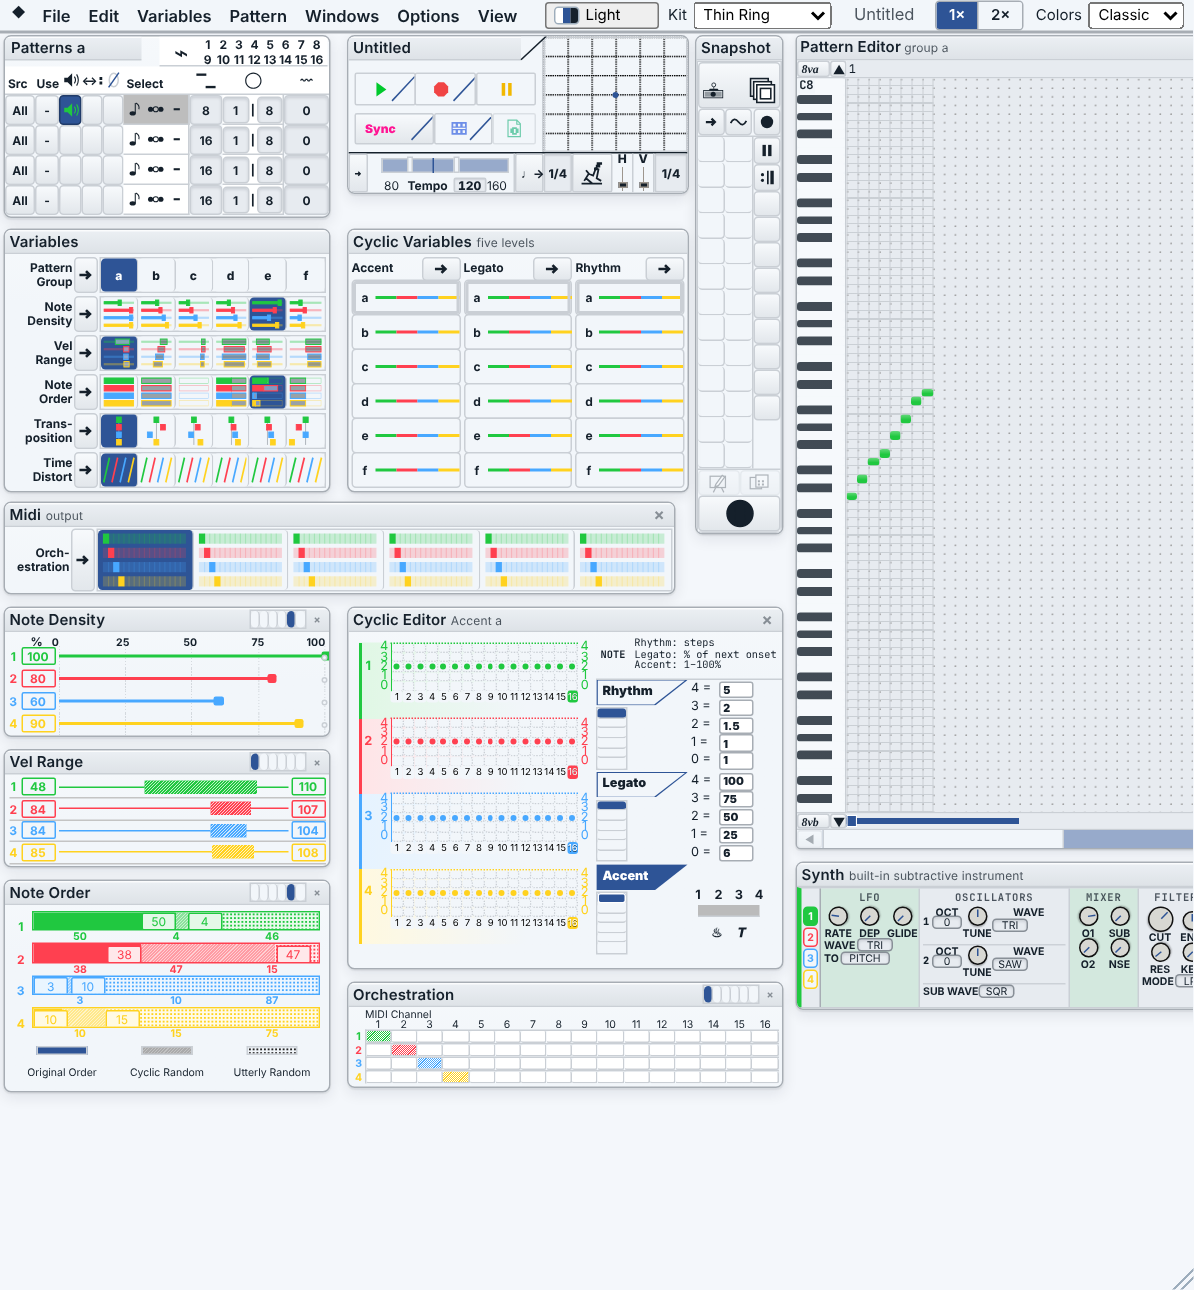
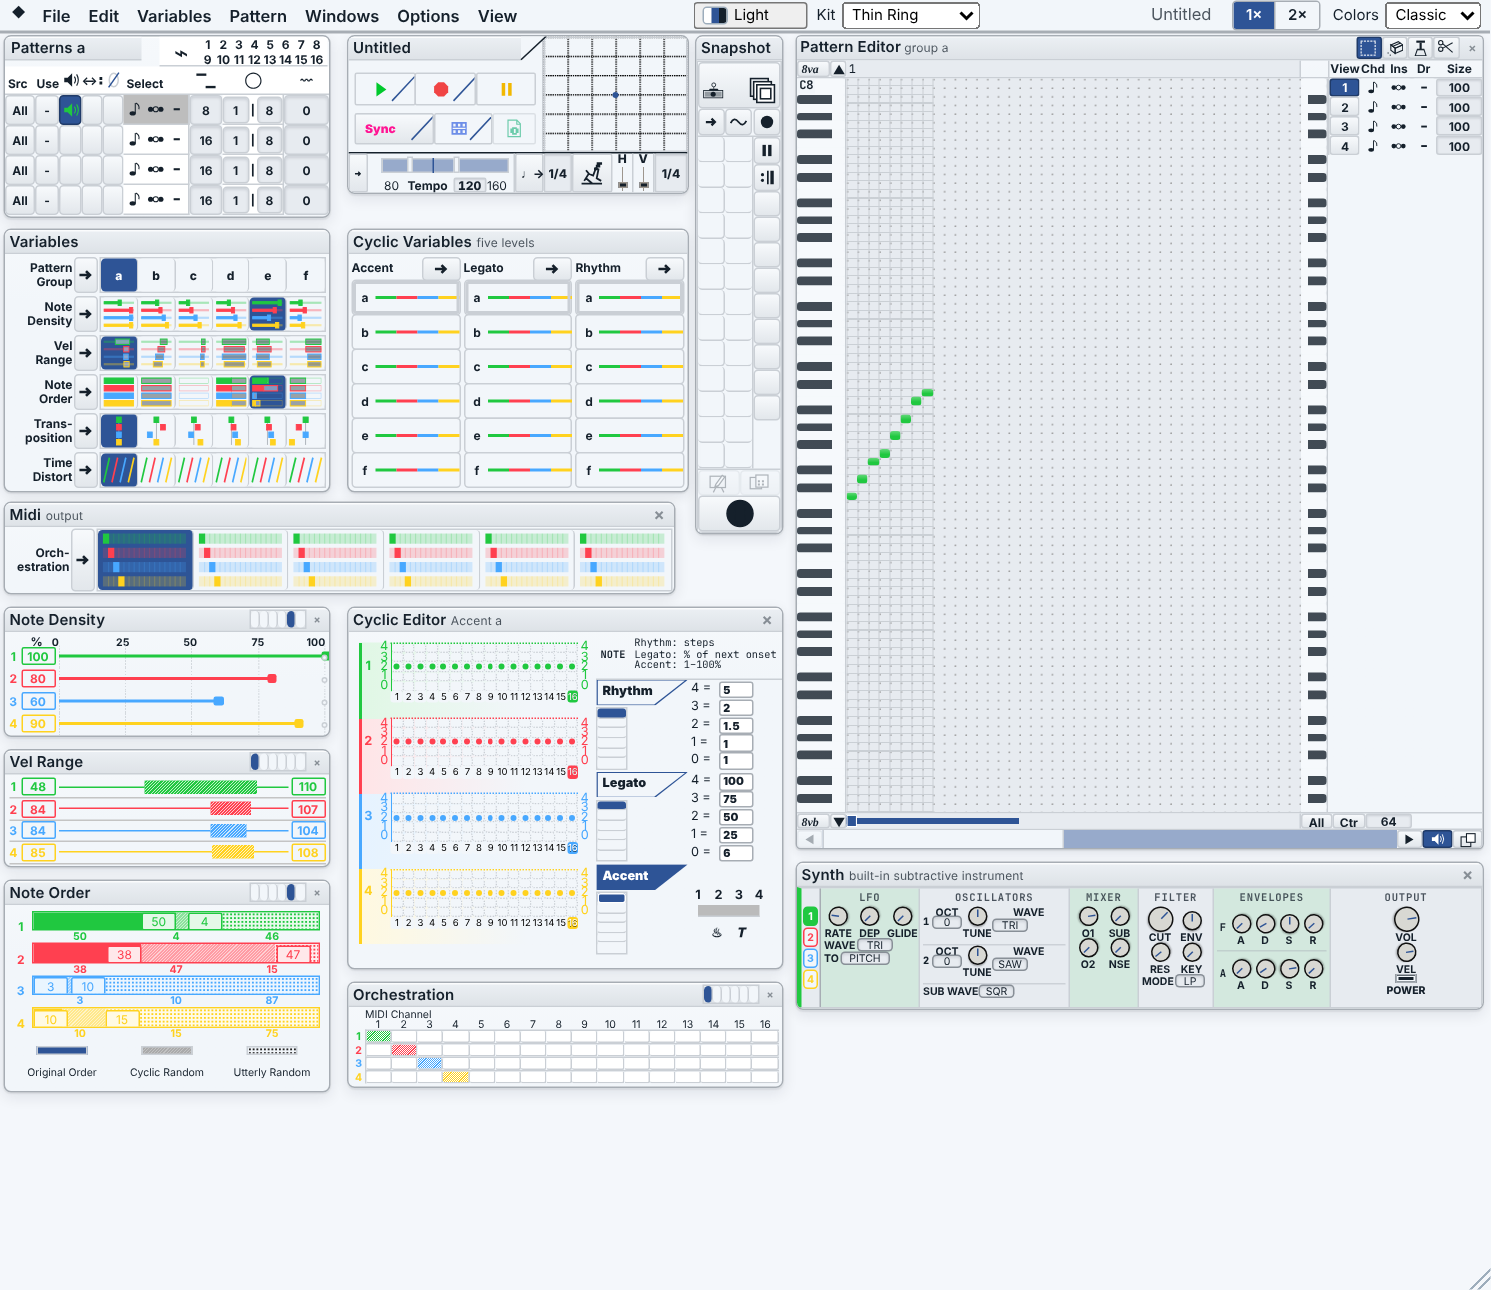
The M node is wide enough for M's whole arrangement
At 818px the node cut the Pattern Editor column in half at the face's
edge, and the corner grip could not widen it. The one fixed width is now
1016px: a 994px face holds the arrangement, which ends at 990px, with
M's 3-point margin either side. The after screenshots are re-taken at
the new width.

Changed region(s): [[0.0, 0.0, 1.0, 0.8682], [0.9606, 0.9922, 1.0, 1.0], [0.1549, 0.5271, 0.1859, 0.5581]]

diff --git a/src/modular/ui/n4/n4.css b/src/modular/ui/n4/n4.css
@@ -808,8 +808,10 @@
 
 /* ===== The Synth: VOSM's envelope panels, tight ===== */
 .mm-node.mm-node--n4[data-module-type="m.synth"] { --mm-width: 300px; }
-/* The original M window, drawn at M's own fixed size. */
-.mm-node.mm-node--n4[data-module-type="m.m"] { --mm-width: 818px; }
+/* The original M window, drawn at one fixed width: M's whole arrangement
+   (the main screen, then the Pattern Editor column) with M's 3-point margin
+   either side, so nothing is cut off at the face's edge. */
+.mm-node.mm-node--n4[data-module-type="m.m"] { --mm-width: 1016px; }
 .mm-node.mm-node--n4[data-module-type="m.synth"] .mm-node-section:has(.n4-synth) { padding: 0; border: 0; background: none; box-shadow: none; }
 .mm-node.mm-node--n4[data-module-type="m.synth"] .mm-node-section:has(.n4-synth) .mm-node-section__content { padding: 0; }
 .n4-synth { display: grid; grid-template-columns: max-content minmax(0, 1fr); gap: 3px; width: 100%; }
